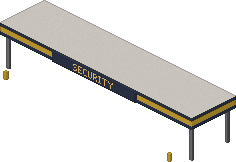
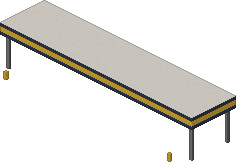
Nuclear plant: only the atom sign, a style pass and more buildings
The POWER, ADMIN, LAB and SECURITY signs are gone (the checkpoint keeps
its yellow and navy band); the atom NUCLEAR sign stays. Cooling towers
get a dark air inlet at the foot with raker legs showing, weathering
streaks and a darker lip; the reactor an apron, tendon lines, a dome in
panels and a hatch; the turbine hall is longer, blue-gray clad, with a
glazed monitor, a front annex and two main transformers.

New: a second reactor unit, a windowless control building, a diesel
generator house with exhaust stacks and a fuel tank, a dry-cask storage
pad, high-voltage pylons feeding the switchyard, and guard watchtowers
at the back corners; the layout is redone around them. No parked cars
under the checkpoint canopy.

Changed region(s): [[0.2076, 0.3086, 0.5932, 0.6173]]

diff --git a/js/city.js b/js/city.js
@@ -769,27 +769,32 @@
     let nuclear = null;
     function nuclearBlock({ u0, u1, v0, v1 }) {
       concrete(u0, v0, u1 - u0, v1 - v0);
-      // Back: two cooling towers and the reactor; middle: substations and the
-      // turbine hall; front left: the staff car park behind a security
-      // checkpoint; front right: the admin office and the R&D lab on a lawn.
-      for (const cu of [u0 + 2.6, u0 + 6.0]) {
-        late.push(['art/nuclear/cooling-tower.png', cu, v0 + 2.7, [cu - 1.15, cu + 1.15, v0 + 1.55, v0 + 3.85]],
-          ['art/nuclear/steam.png', cu, v0 + 2.7, [cu - 0.05, cu + 0.05, v0 + 2.65, v0 + 2.75]]);
+      // Back: two cooling towers, two reactor units, guard towers at the
+      // corners, the water tower; middle: the switchyard fed by pylons, the
+      // turbine hall with its transformers, the control building; then dry
+      // cask storage, the generator house and the fuel store; front left the
+      // staff car park behind a security checkpoint, front right the admin
+      // office and the R&D lab on a lawn.
+      for (const cu of [u0 + 2.4, u0 + 5.5]) {
+        late.push(['art/nuclear/cooling-tower.png', cu, v0 + 2.4, [cu - 1.15, cu + 1.15, v0 + 1.25, v0 + 3.55]],
+          ['art/nuclear/steam.png', cu, v0 + 2.4, [cu - 0.05, cu + 0.05, v0 + 2.35, v0 + 2.45]]);
       }
-      artLot('nuclear/reactor.png', u0 + 11.0, v0 + 2.8);
-      artProp('industry/water-tower.png', u0 + 13.9, v0 + 5.6);
-      artLot('industry/power-station.png', u0 + 2.6, v0 + 7.0);
-      artLot('industry/power-station.png', u0 + 5.2, v0 + 7.0);
-      artLot('nuclear/turbine-hall.png', u0 + 10.4, v0 + 7.0);
-      artLot('port/warehouse-b.png', u0 + 8.6, v0 + 2.5);                     // fuel storage
-      artLot('industry/workshop.png', u0 + 7.4, v0 + 7.2);                    // maintenance
-      artProp('industry/dish.png', u0 + 6.9, v0 + 4.8);
-      artProp('industry/barrels.png', u0 + 6.3, v0 + 8.6);
-      artProp('industry/cell-tower.png', u0 + 13.2, v0 + 1.2);
-      artProp('port/stack-a.png', u0 + 13.6, v0 + 8.6);
-      artProp('port/stack-b.png', u0 + 14.2, v0 + 7.4);
-      artProp('industry/truck-blue.png', u0 + 12.6, v0 + 9.1);
-      artProp('industry/truck-red-r1.png', u0 + 8.6, v0 + 4.4);
+      artLot('nuclear/reactor.png', u0 + 8.9, v0 + 2.5);
+      artLot('nuclear/reactor.png', u0 + 11.8, v0 + 2.5);
+      artProp('industry/water-tower.png', u0 + 14.1, v0 + 2.8);
+      for (const wu of [u0 + 0.45, u1 - 0.45]) late.push(['art/nuclear/watchtower.png', wu, v0 + 0.45, pointBox(wu, v0 + 0.45)]);
+      artLot('industry/power-station.png', u0 + 2.2, v0 + 6.2);
+      artLot('industry/power-station.png', u0 + 4.6, v0 + 6.2);
+      for (const pv of [v0 + 4.9, v0 + 8.3]) artProp('nuclear/pylon.png', u0 + 0.75, pv);
+      artProp('industry/dish.png', u0 + 6.9, v0 + 4.6);
+      artLot('nuclear/turbine-hall.png', u0 + 10.3, v0 + 5.6);
+      artLot('nuclear/control.png', u0 + 14.0, v0 + 5.6);
+      artLot('nuclear/casks.png', u0 + 7.4, v0 + 8.2);
+      artLot('nuclear/generators.png', u0 + 10.2, v0 + 8.1);
+      artLot('port/warehouse-b.png', u0 + 13.0, v0 + 8.1);                     // fuel store
+      artProp('industry/truck-blue.png', u0 + 4.2, v0 + 8.9);
+      artProp('industry/barrels.png', u0 + 5.8, v0 + 9.0);
+      artProp('port/stack-a.png', u0 + 2.2, v0 + 8.9);
       // Car park: lined asphalt, two rows either side of an aisle.
       const pu1 = u0 + 9;
       // Rows: stalls, aisle, stalls back to back, and the aisle in from the checkpoint.
@@ -799,6 +804,7 @@
       for (let k = 0; k < 18; k++) {
         const u = u0 + 0.25 + k * 0.5;
         for (const [v, dir] of [[v0 + 10.65, 1], [v0 + 12.35, -1], [v0 + 13.65, 1]]) {
+          if (v > v0 + 13 && u > gcol - 0.2 && u < gcol + 3.2) continue;           // the lanes in, under the canopy
           if (rng() < 0.55) parkedCars.push({ u, v, head: [0, rng() < 0.3 ? -dir : dir], type: pick(TYPES) });
         }
       }
@@ -1611,7 +1617,7 @@
     // outside the footprint, free of props; count buildings that
     // intrude on another's entrance (tools/sim.js fails on any).
     const EXTRA = {                                  // sprite ground beyond the footprint: [-u, +u, -v, +v]
-      'buildings/brick-4.png': [0, 0, 0, CANOPY], 'buildings/hotel.png': [0, 0, 0, CANOPY], 'civic/hospital.png': [0, 0, 0, 0.5], 'landmarks/tv-station.png': [0, 0, 0, 0.36], 'houses/diner.png': [0, 0.18, 0, 0],
+      'buildings/brick-4.png': [0, 0, 0, CANOPY], 'buildings/hotel.png': [0, 0, 0, CANOPY], 'civic/hospital.png': [0, 0, 0, 0.5], 'nuclear/reactor.png': [0, 0, 0, 0.3], 'nuclear/turbine-hall.png': [0, 0.55, 0, 0.3], 'landmarks/tv-station.png': [0, 0, 0, 0.36], 'houses/diner.png': [0, 0.18, 0, 0],
       'buildings/fastfood.png': [0, 0.34, 0, 0], 'buildings/bistro.png': [0, 0.58, 0, 0], 'buildings/apartment-2.png': [0, 0.22, 0, 0.3],
       'civic/church.png': [0.04, 0.04, 0, 0.36], 'civic/bank.png': [0, 0, 0, 0.36],
     };

diff --git a/tools/art.py b/tools/art.py
@@ -3471,21 +3471,31 @@ def power_station(seed):
 # ---------- nuclear power plant ----------
 
 def cooling_tower(seed, R=1.15, H=170):
-    """Hyperbolic cooling tower (radius R tiles at the base, H px tall); its
-    steam is tower_steam, drawn over everything."""
+    """Hyperbolic cooling tower (radius R tiles at the base, H px tall): a
+    dark air-inlet gap at the foot with the raker legs showing, the shell in
+    courses with weathering streaks running down from the lip, a darker lip;
+    its steam is tower_steam, drawn over everything."""
     s = Sprite(420, 460, 210, 400, seed)
-    for z in range(0, H, 5):                                   # the waist narrows then flares at the top
-        t = z / H
-        r = R * (0.62 + 0.38 * ((t - 0.72) / 0.72) ** 2)
-        shade = 1.0 if (z // 5) % 2 else 0.96
-        ring(s, r, z, 6, lambda k, shade=shade: flat(s, rgb("#d8d4cc") * shade, 4), n=28)
-    rt = R * 0.72
-    ring(s, rt + 0.01, H - 3, 4, lambda k: flat(s, "#bdb3a2", 3), n=28)
-    disk(s, rt, H, flat(s, "#4a494b", 2), n=28)
-    for k in range(6):                                         # legs round the base
-        a = 2 * math.pi * k / 6
-        s.box(R * 0.98 * math.cos(a) - 0.03, R * 0.98 * math.sin(a) - 0.03, 0, 0.06, 0.06, 10,
-              *(flat(s, c) for c in ("#bdb3a2", "#a69c8c", "#8e8680")))
+    rng = np.random.default_rng(seed)
+    streaks = rng.random(28) < 0.35
+    shell = lambda z: R * (0.62 + 0.38 * ((z / H - 0.72) / 0.72) ** 2)
+    ring(s, R * 0.97, 0, 12, lambda k: flat(s, "#2a2a2e", 2), n=28)              # the inlet gap, dark inside
+    for k in range(14):                                                        # raker legs, in pairs
+        a = 2 * math.pi * k / 14
+        for da in (-0.05, 0.05):
+            x, y = R * math.cos(a + da), R * math.sin(a + da)
+            s.line(s.proj(x, y, 0), s.proj(x * 0.99, y * 0.99, 12), rgb("#bdb3a2"), x + y + 0.02)
+    for z in range(12, H, 5):
+        r = shell(z)
+        base = rgb("#d8d4cc") * (1.0 if (z // 5) % 2 else 0.965)
+        wear = min(1.0, (H - z) / 60)                                           # streaks fade downward
+        def face_sh(k, base=base, wear=wear):
+            c = base * (0.86 if streaks[k] and wear < 1 else 1.0) if z > H - 60 else base
+            return flat(s, c, 4)
+        ring(s, r, z, 6, face_sh, n=28)
+    rt = shell(H)
+    ring(s, rt + 0.02, H - 4, 5, lambda k: flat(s, "#a69c8c", 3), n=28)       # lip
+    disk(s, rt, H + 1, flat(s, "#3a3a3e", 2), n=28)
     s.outline(0.72)
     return s
 
@@ -3508,23 +3518,31 @@ def tower_steam(seed, p, R=1.15, H=170):
 
 
 def reactor(seed):
-    """Containment building: a round concrete drum under a dome, a small
-    annex and a vent stack beside it."""
+    """Containment building: a concrete apron, a drum with tendon lines, a
+    dome in panels with a hatch, an annex with a door toward +v, a vent
+    stack in red and white bands."""
     s = Sprite(260, 300, 130, 230, seed)
     R, H = 0.95, 70
-    ring(s, R, 0, H, lambda k: banded(s, [rgb("#d8d0c0"), rgb("#ccc4b4")], 7, axis=1), n=28)
-    for k in range(10):                                        # dome
+    ring(s, R + 0.12, 0, 4, lambda k: flat(s, "#b3ab9e", 4), n=28)
+    disk(s, R + 0.12, 4, flat(s, "#c8c2b6", 4), n=28)
+    drum = lambda k: (lambda a_, b_, xs, ys: np.where((np.mod(xs, 6) == 0)[:, None], rgb("#c8c0b0"),
+                                                      rgb("#dcd4c4") * (0.97 + 0.06 * b_[:, None])))
+    ring(s, R, 4, H - 4, drum, n=28)
+    ring(s, R + 0.02, H - 3, 4, lambda k: flat(s, "#bdb3a2", 3), n=28)
+    for k in range(10):                                        # dome in panels
         t0 = k / 10
         r = R * math.cos(t0 * math.pi / 2)
-        ring(s, max(r, 0.05), H + math.sin(t0 * math.pi / 2) * 46, 5, lambda i: flat(s, "#e0d8c8", 3), n=28)
+        tone = rgb("#e4dccc") * (1.0 if k % 3 else 0.95)
+        ring(s, max(r, 0.05), H + math.sin(t0 * math.pi / 2) * 46, 5, lambda i, tone=tone: flat(s, tone * (0.97 if i % 4 == 0 else 1.0), 3), n=28)
     s.blob((0, 0, H + 48), 5, ramp("#c8c2b6", "#e0d8c8", "#f0ece4"), squash=0.6)
-    s.box(-0.3, R - 0.1, 0, 0.6, 0.35, 30, flat(s, "#bdb3a2"),
-          wall_shader(s, "#d8d0c0", 0.6 * 71.6, 30, 2, spans(3), (0.4, 0.6), None, "plain"),
-          wall_shader(s, "#d8d0c0", 0.35 * 71.6, 30, 2, spans(1), None, None, "plain"))
-    for z in range(0, 110, 5):                                 # vent stack
-        ring(s, 0.09, z, 5, lambda k, z=z: flat(s, "#e0d8c8" if (z // 20) % 2 else "#c8402a", 3), n=10, cx=R + 0.25, cy=-0.3)
+    s.box(-0.14, R - 0.05, 24, 0.28, 0.06, 18, *(flat(s, c) for c in ("#8e8680", "#76706a", "#6a645e")))   # equipment hatch
+    s.box(-0.35, R - 0.02, 4, 0.7, 0.42, 30, flat(s, "#bdb3a2"),
+          wall_shader(s, "#d0c8b8", 0.7 * 71.6, 30, 2, spans(3), (0.42, 0.58), None, "plain"),
+          wall_shader(s, "#d0c8b8", 0.42 * 71.6, 30, 2, spans(1), None, None, "plain"))
+    for z in range(0, 118, 5):                                 # vent stack
+        ring(s, 0.09, z, 5, lambda k, z=z: flat(s, "#e0d8c8" if (z // 20) % 2 else "#b0341f", 3), n=10, cx=R + 0.25, cy=-0.3)
     s.outline(0.72)
-    return s, (2 * R, 2 * R)
+    return s, (2 * R + 0.24, 2 * R + 0.24)
 
 
 def atom_tex(W=64, H=40):
@@ -3572,6 +3590,125 @@ def atom_sign(seed):
     return s
 
 
+def pylon(seed):
+    """High-voltage transmission tower: a tapering lattice with two cross
+    arms and hanging insulators, wires running off along v."""
+    s = Sprite(170, 240, 85, 200, seed)
+    H = 130
+    half = lambda z: 0.22 * (1 - z / H) + 0.05
+    col = rgb("#5e5a64")
+    for cx, cy in ((-1, -1), (1, -1), (1, 1), (-1, 1)):
+        p0, p1 = s.proj(cx * half(0), cy * half(0), 0), s.proj(cx * half(H), cy * half(H), H)
+        for dx in (0, 1):
+            s.line((p0[0] + dx, p0[1]), (p1[0] + dx, p1[1]), col * (1.0 if dx else 0.8), (cx + cy) * 0.1)
+    for z0 in range(0, H, 16):                                  # lattice
+        z1 = z0 + 16
+        for (ax, ay), (bx, by) in (((-1, 1), (1, 1)), ((1, -1), (1, 1))):
+            s.line(s.proj(ax * half(z0), ay * half(z0), z0), s.proj(bx * half(z1), by * half(z1), z1), col * 0.9, 0.15)
+            s.line(s.proj(bx * half(z0), by * half(z0), z0), s.proj(ax * half(z1), ay * half(z1), z1), col * 0.9, 0.15)
+    for z, w in ((96, 0.55), (120, 0.4)):                        # cross arms along u, insulators, wires along v
+        for dz in (0, 1, 2):
+            s.line(s.proj(-w, 0, z + dz), s.proj(w, 0, z + dz), col * (0.8 if dz == 2 else 1.0), 0.3)
+        for x in (-w + 0.05, w - 0.05):
+            s.line(s.proj(x, 0, z), s.proj(x, 0, z - 8), rgb("#c8b8a0"), 0.35)
+            for d in (-1, 1):
+                s.line(s.proj(x, 0, z - 8), s.proj(x, d * 0.9, z - 18), rgb("#2e2d30"), 0.36)
+    s.outline(0.85)
+    return s
+
+
+def dry_casks(seed):
+    """Dry cask storage: a concrete pad with two rows of tall gray casks."""
+    s = Sprite(300, 190, 150, 120, seed)
+    a, b = 2.2, 1.2
+    x0, y0 = -a / 2, -b / 2
+    s.box(x0, y0, 0, a, b, 3, *(flat(s, c) for c in ("#c8c2b6", "#b3ab9e", "#9c9486")))
+    for r in range(2):
+        for k in range(5):
+            cx, cy = x0 + 0.24 + k * 0.43, y0 + 0.3 + r * 0.6
+            ring(s, 0.15, 3, 30, lambda i: banded(s, [rgb("#a8a4ae"), rgb("#9c98a2")], 5, axis=1), n=14, cx=cx, cy=cy)
+            disk(s, 0.15, 33, flat(s, "#bdb8c2", 3), n=14, cx=cx, cy=cy)
+            s.blob((cx, cy, 34), 2, ramp("#716f74", "#8e8a94", "#a8a4ae"), squash=0.5)
+    s.outline(0.75)
+    return s, (a, b)
+
+
+def generator_house(seed):
+    """Emergency diesel generator house: louvred concrete walls, three
+    exhaust stacks, a fuel tank on saddles at its side."""
+    s = Sprite(260, 220, 130, 150, seed)
+    a, b, h = 1.4, 0.9, 30
+    x0, y0 = -a / 2, -b / 2
+
+    def wall(length_px, door):
+        def sh(a_, b_, xs, ys):
+            along, z = a_ * length_px, b_ * h
+            out = np.repeat(rgb("#c8c2b6")[None], len(a_), 0)
+            louv = (z > 12) & (z < 24) & (np.mod(along, 14) > 3) & (np.mod(along, 14) < 11) & (np.mod(z, 2) < 1)
+            out = np.where(louv[:, None], rgb("#6e6a64"), out)
+            if door:
+                d = (np.abs(along - length_px * 0.5) < 6) & (z < 20)
+                out = np.where(d[:, None], rgb("#5b5a5c"), out)
+            return out + (s.grain[ys, xs] - 0.5)[:, None] * 4
+        return sh
+    s.box(x0, y0, 0, a, b, h, flat(s, "#b3ab9e"), wall(a * 71.6, True), wall(b * 71.6, False))
+    for k in range(3):
+        cx = x0 + 0.3 + k * 0.4
+        ring(s, 0.05, h, 26, lambda i: flat(s, "#716f74", 3), n=10, cx=cx, cy=y0 + 0.3)
+        disk(s, 0.05, h + 26, flat(s, "#2e2e32", 2), n=10, cx=cx, cy=y0 + 0.3)
+    for k in range(8):                                        # fuel tank on its side, along v
+        t0 = k / 8
+        s.face((x0 + a + 0.06 + 0.24 * math.sin(math.pi * t0) * 0, y0 + 0.05, 4 + 16 * math.sin(math.pi * t0)),
+               (0, b - 0.1, 0), (0.24 / 8, 0, 16 * (math.sin(math.pi * (t0 + 1 / 8)) - math.sin(math.pi * t0))),
+               flat(s, rgb("#d8d4cc") * (0.8 + 0.25 * t0), 3))
+    s.box(x0 + a + 0.06, y0 + 0.05, 0, 0.3, b - 0.1, 12, *(flat(s, c) for c in ("#d8d4cc", "#c8c4bc", "#b8b4ac")))
+    s.outline(0.75)
+    return s, (a, b)
+
+
+def control_building(seed):
+    """Control building: a squat reinforced block, slit windows, a door in
+    a recess, antennas on the roof."""
+    s = Sprite(260, 220, 130, 160, seed)
+    a, b, h = 1.6, 1.2, 38
+    x0, y0 = -a / 2, -b / 2
+
+    def wall(length_px, door):
+        def sh(a_, b_, xs, ys):
+            along, z = a_ * length_px, b_ * h
+            out = np.where((np.mod(z, 10) < 1)[:, None], rgb("#bcb4a4"), rgb("#d0c8b8"))
+            slit = (z > 24) & (z < 30) & (np.mod(along, 16) > 6) & (np.mod(along, 16) < 12)
+            out = np.where(slit[:, None], np.array(GLASS_BLUE)[(xs + ys) % 4], out)
+            if door:
+                d = (np.abs(along - length_px * 0.5) < 7) & (z < 18)
+                out = np.where(d[:, None], rgb("#5b5a5c"), out)
+            return out + (s.grain[ys, xs] - 0.5)[:, None] * 4
+        return sh
+    s.box(x0, y0, 0, a, b, h, flat(s, "#b3ab9e"), wall(a * 71.6, True), wall(b * 71.6, False))
+    s.box(x0 - 0.04, y0 - 0.04, h, a + 0.08, b + 0.08, 4, *(flat(s, c) for c in ("#c8c0b0", "#b3ab9e", "#9c9486")))
+    for x, hh in ((x0 + 0.3, 26), (x0 + 0.5, 18)):
+        s.box(x, y0 + 0.3, h + 4, 0.02, 0.02, hh, *(flat(s, c, 2) for c in STEEL))
+    s.blob((x0 + a - 0.4, y0 + 0.4, h + 12), 5, ramp("#9a9488", "#c8c2b6", "#e8e2d6"), squash=0.55, shade=0.2)
+    s.outline(0.72)
+    return s, (a, b)
+
+
+def watchtower(seed):
+    """Guard watchtower: four legs, a glazed cab with a roof and a searchlight."""
+    s = Sprite(120, 190, 60, 160, seed)
+    steel = [flat(s, c, 2) for c in ("#8e8a94", "#716f74", "#5b5a5c")]
+    for x, y in ((-0.14, -0.14), (0.11, -0.14), (0.11, 0.11), (-0.14, 0.11)):
+        s.box(x, y, 0, 0.03, 0.03, 70, *steel)
+    for z in (22, 46):
+        s.line(s.proj(-0.13, 0.12, z), s.proj(0.12, 0.12, z + 22), rgb("#716f74"), 0.25)
+    cab = lambda a_, b_, xs, ys: np.where(((b_ > 0.35) & (b_ < 0.85))[:, None], np.array(GLASS_BLUE)[(xs + ys) % 4] * 1.15, rgb("#c8c4bc"))
+    s.box(-0.18, -0.18, 70, 0.36, 0.36, 22, flat(s, "#c8c4bc"), cab, cab)
+    s.box(-0.22, -0.22, 92, 0.44, 0.44, 3, *(flat(s, c) for c in ("#5b5a5c", "#4a494b", "#3e3d3f")))
+    s.blob((0.12, 0.12, 97), 2.5, ramp("#c8a030", "#f2d070", "#fff4c0"))
+    s.outline(0.8)
+    return s
+
+
 def rd_lab(seed):
     """R&D lab: two white floors with ribbon windows in blue glass, a glass
     entrance, rooftop plant and a small dish, a LAB sign."""
@@ -3598,7 +3735,6 @@ def rd_lab(seed):
         s.box(x0 + 0.3 + k * 0.45, y0 + 0.25, h + 3, 0.28, 0.28, 10, fan_top(s), flat(s, "#bdb3a2"), flat(s, "#a69c8c"))
     s.box(x0 + a - 0.45, y0 + 0.3, h + 3, 0.05, 0.05, 12, *(flat(s, cc) for cc in STEEL))
     s.blob((x0 + a - 0.43, y0 + 0.32, h + 20), 6, ramp("#9a9488", "#c8c2b6", "#e8e2d6"), squash=0.55, shade=0.2)
-    wall_sign(s, x0 + a * 0.5, y0 + b, 24, 0.44, "LAB", "#3a6ab0", "#f0f2f4", 11)
     s.outline(0.72)
     return s, (a, b)
 
@@ -3627,29 +3763,46 @@ def check_canopy(seed, span=3.0):
             s.box(x, y, 0, 0.04, 0.04, 34, *(flat(s, cc, 2) for cc in STEEL))
     band = lambda length: (lambda a_, b_, xs, ys: np.where(((b_ > 0.3) & (b_ < 0.7))[:, None], rgb("#c8a030"), rgb("#2c3548")))
     s.box(x0, y0, 34, span, d, 12, flat(s, "#c8c4bc"), band(span), band(d))
-    wall_sign(s, 0, y0 + d, 35, 1.3, "SECURITY", "#2c3548", "#f2c06a", 10)
     for x in (x0 + 0.2, x0 + span - 0.24):                               # yellow bollards
         s.box(x, y0 + d + 0.1, 0, 0.04, 0.04, 8, *(flat(s, "#c8a030") for _ in range(3)))
     s.outline(0.8)
     return s
 
 
-def turbine_hall(seed, a=3.0, b=1.4):
-    """Turbine hall: a tall ribbed shed with a band of high windows and a
-    POWER board."""
-    s = Sprite(420, 300, 210, 200, seed)
-    x0, y0, h = -a / 2, -b / 2, 52
+def turbine_hall(seed, a=4.6, b=1.4):
+    """Turbine hall: a tall blue-gray clad hall with a band of high windows,
+    a lower annex along its front, roof vents and a glazed monitor, and two
+    main transformers with fins and bushings at its +u end."""
+    s = Sprite(520, 320, 260, 210, seed)
+    x0, y0, h = -a / 2, -b / 2, 56
 
-    def wall(length):
+    def wall(length_px):
         def sh(a_, b_, xs, ys):
-            out = ribs(s, "#b8c4cc", 3)(a_, b_, xs, ys)
-            z = b_ * h
-            win = (z > 36) & (z < 46)
-            return np.where(win[:, None], np.array(GLASS_BLUE)[(xs + ys) % 4] * 1.1, out)
+            along, z = a_ * length_px, b_ * h
+            out = np.where((np.mod(along, 3) < 1)[:, None], rgb("#a4b0ba"), rgb("#b8c4cc"))
+            win = (z > 40) & (z < 50) & (np.mod(along, 12) > 2)
+            out = np.where(win[:, None], np.array(GLASS_BLUE)[(xs + ys) % 4] * 1.1, out)
+            out = np.where((z < 4)[:, None], rgb("#a69c8c"), out)
+            return out + (s.grain[ys, xs] - 0.5)[:, None] * 3
         return sh
-    s.box(x0, y0, 0, a, b, h, flat(s, "#8e98a0"), wall(a), wall(b))
+    s.box(x0, y0, 0, a, b, h, flat(s, "#8e98a0"), wall(a * 71.6), wall(b * 71.6))
     s.box(x0 - 0.03, y0 - 0.03, h, a + 0.06, b + 0.06, 3, *(flat(s, c) for c in ("#7a8a96", "#6a7a86", "#5a6a76")))
-    roof_board(s, x0, y0, a, b, h, "POWER", "#2c3548", "#f2c06a", w=1.0)
+    mon = lambda a_, b_, xs, ys: np.where((b_ > 0.3)[:, None], np.array(GLASS_BLUE)[(xs + ys) % 4] * 1.15, rgb("#7a8a96"))
+    s.box(x0 + 0.3, y0 + 0.45, h + 3, a - 0.6, 0.5, 8, flat(s, "#6a7a86"), mon, mon)
+    for k in range(3):
+        s.box(x0 + 0.5 + k * 1.4, y0 + 0.1, h + 3, 0.22, 0.22, 7, fan_top(s), flat(s, "#9791a2"), flat(s, "#716f74"))
+    annex = lambda a_, b_, xs, ys: np.where(((np.mod(a_ * a * 71.6, 18) > 4) & (b_ > 0.35) & (b_ < 0.75))[:, None],
+                                            np.array(GLASS_BLUE)[(xs + ys) % 4] * 1.05, rgb("#c8ccd0"))
+    s.box(x0 + 0.2, y0 + b, 0, a - 0.4, 0.3, 22, flat(s, "#a4b0ba"), annex, flat(s, "#b8c0c6"))
+    for k in range(2):                                        # main transformers at the +u end
+        tx = x0 + a + 0.12
+        ty = y0 + 0.1 + k * 0.62
+        s.box(tx, ty, 0, 0.38, 0.5, 22, *(flat(s, c) for c in ("#7a8a7a", "#6a7a6a", "#5a6a5a")))
+        for f in range(5):
+            s.box(tx + 0.38, ty + 0.04 + f * 0.09, 2, 0.05, 0.03, 18, *(flat(s, "#5a6a5a") for _ in range(3)))
+        for ix in (0.08, 0.19, 0.3):
+            s.box(tx + ix, ty + 0.22, 22, 0.02, 0.02, 12, *(flat(s, "#c8b8a0") for _ in range(3)))
+            s.blob((tx + ix + 0.01, ty + 0.23, 35), 1.6, ramp("#8a6a4a", "#c8b8a0", "#e8e2d6"))
     s.outline(0.72)
     return s, (a, b)
 
@@ -4077,11 +4230,18 @@ def main():
     save(atom_sign(243), "nuclear/sign.png")
     spr, (fa, fb) = rd_lab(244)
     save(spr, "nuclear/lab.png", footprint=[fa, fb])
-    spr, (fa, fb) = building(245, "office", a=1.7, b=1.1, floors=4, wall="#c8c4bc", helipad=False, glass=GLASS_BLUE,
-                             roof_sign="ADMIN")
+    spr, (fa, fb) = building(245, "office", a=1.7, b=1.1, floors=4, wall="#c8c4bc", helipad=False, glass=GLASS_BLUE)
     save(spr, "nuclear/office.png", footprint=[fa, fb])
     save(guardhouse(246), "nuclear/guardhouse.png")
     save(check_canopy(247), "nuclear/checkpoint.png")
+    save(pylon(248), "nuclear/pylon.png")
+    spr, (fa, fb) = dry_casks(249)
+    save(spr, "nuclear/casks.png", footprint=[fa, fb])
+    spr, (fa, fb) = generator_house(252)
+    save(spr, "nuclear/generators.png", footprint=[fa + 0.36, fb])
+    spr, (fa, fb) = control_building(253)
+    save(spr, "nuclear/control.png", footprint=[fa, fb])
+    save(watchtower(254), "nuclear/watchtower.png")
     # Hospital.
     spr, (fa, fb) = hospital(250)
     save(spr, "civic/hospital.png", footprint=[fa, fb])
